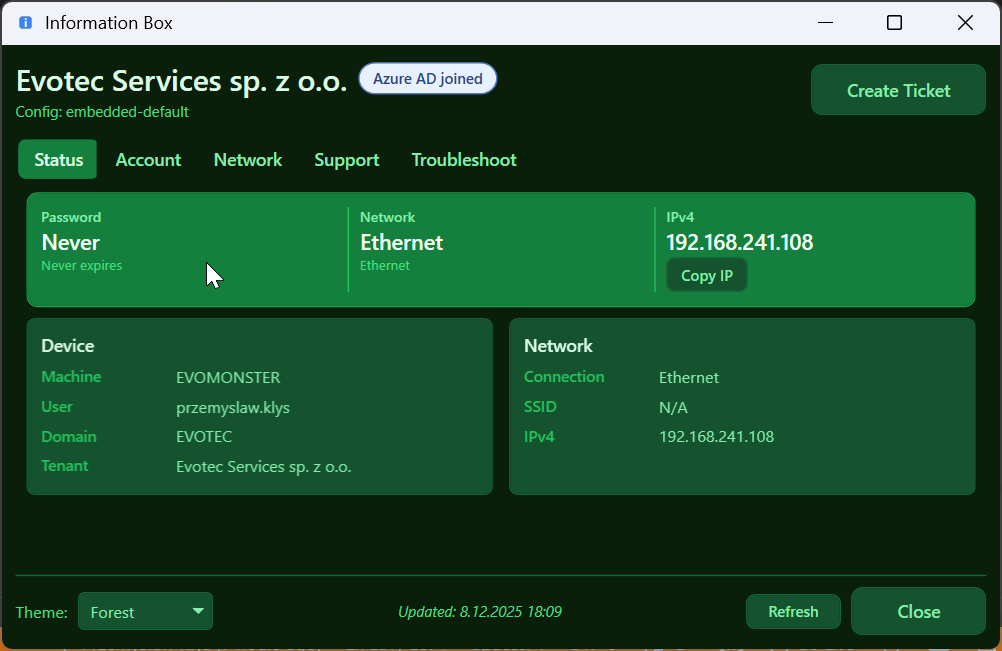
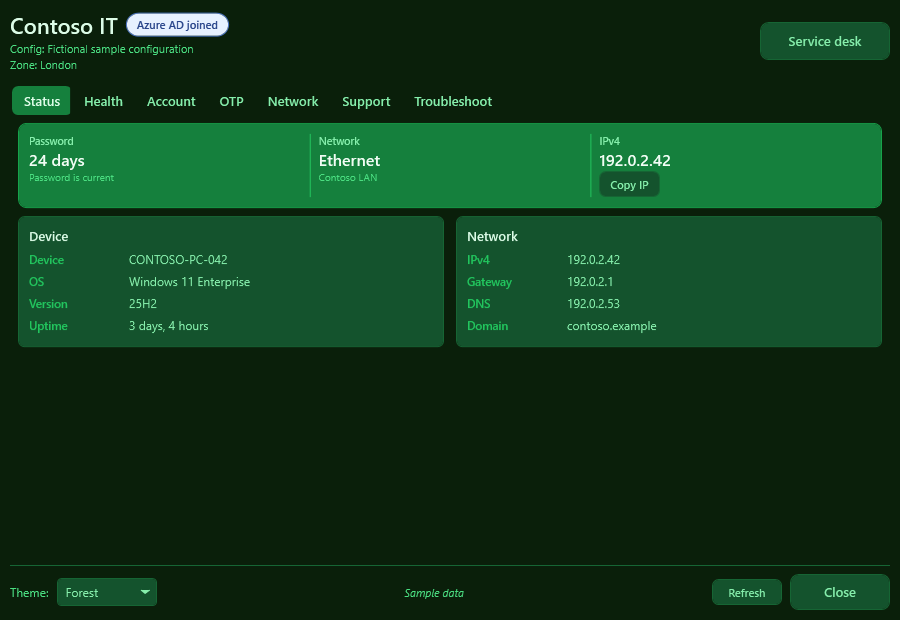
Replace documentation captures with fictional Windows views

diff --git a/README.md b/README.md
@@ -83,11 +83,15 @@ The main window has seven tabs:
 | Troubleshoot | Built-in fixes grouped by category, confirmation prompts and command results. Hidden when no fixes are visible. |
 
 ## Screenshots & Themes
+The Windows views below use fictional sample data. The troubleshooting output is
+illustrative; no repair command was run to create it. The OTP view shows an empty
+sample account list without opening a real vault.
+
 - Main status view (default)
 
 ![Main status view](Assets/Images/InformationBox01.png)
 
-- Troubleshoot tab with live command output
+- Troubleshoot tab with sample command output
 
 ![Troubleshoot tab](Assets/Images/InformationBox02.png)
 
@@ -97,6 +101,16 @@ The main window has seven tabs:
 - System tray menu
 
 ![Tray menu](Assets/Images/InformationBox04.png)
+
+The other tabs use the same sample profile:
+
+![Health checks](Assets/Images/InformationBox05.png)
+
+![Account information](Assets/Images/InformationBox-Account.png)
+
+![Network information](Assets/Images/InformationBox-Network.png)
+
+![One-time password view](Assets/Images/InformationBox-OTP.png)
 
 ### Theme Variants
 - Forest theme
